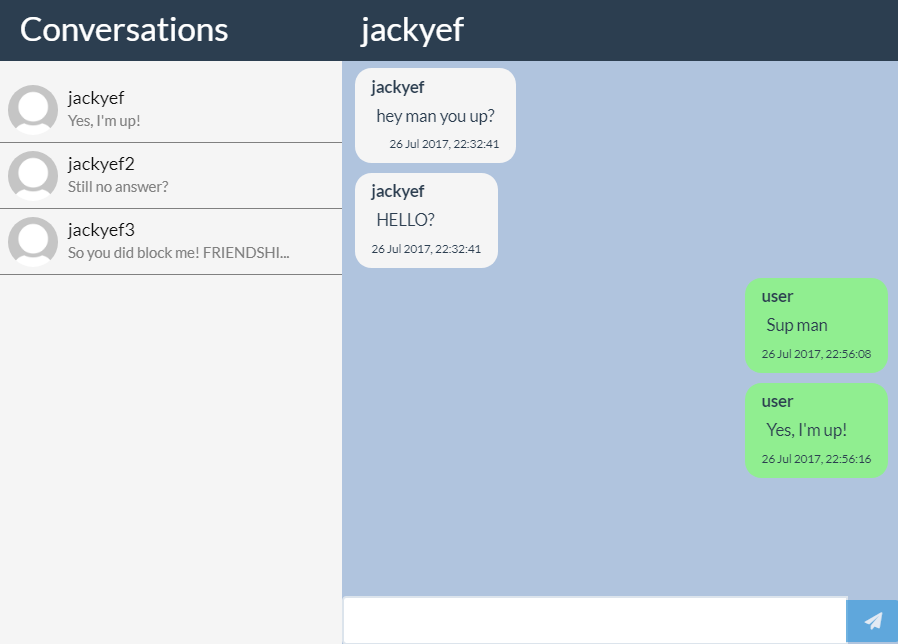
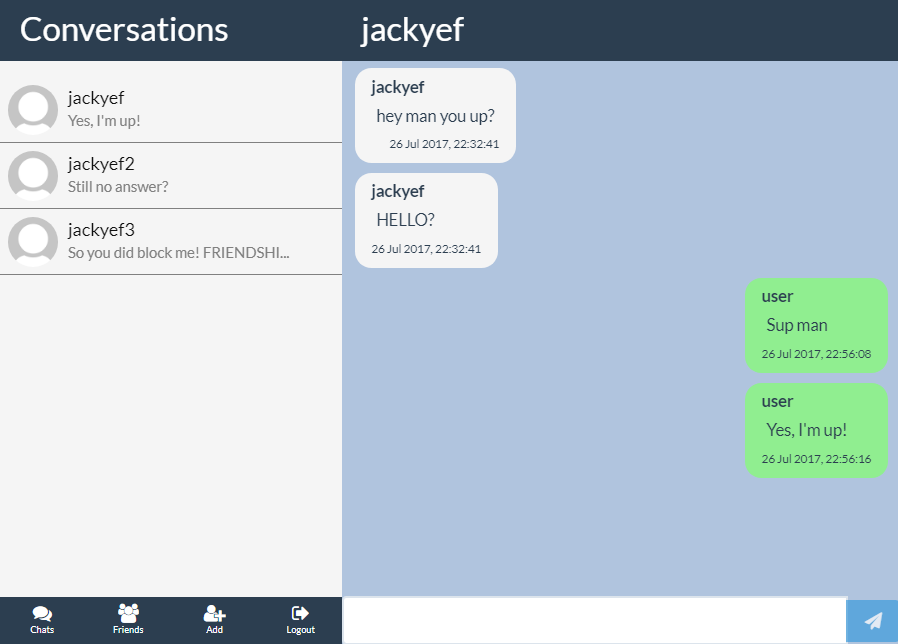
Update chat-app UI

Changed region(s): [[0.0, 0.9006, 0.4053, 1.0]]

diff --git a/server.js b/server.js
@@ -6,18 +6,19 @@ const session = require('express-session');
 const moment = require('moment');
 const passport = require('passport');
 const FacebookStrategy = require('passport-facebook');
+require('dotenv').config();
 
 var app = express();
 var expressWs = require('express-ws')(app);
 const port = process.env.PORT || "8000";
-const mongoUrl = process.env.PROD_MONGODB ;
+const mongoUrl = process.env.PROD_MONGODB;
 
-var twitterApiKey = process.env.TWITTER_API_KEY;
-var twitterApiSecret = process.env.TWITTER_API_SECRET ;
+var twitterApiKey = process.env.TWITTER_API_KEY || "";
+var twitterApiSecret = process.env.TWITTER_API_SECRET || "";
 // If you are seeing this and thought to yourself "Hey, free key!",
 // well, you're out of luck. This key only limits to 3 USD/month 
 // and it won't go over the limit at all 
-var bingApiKey = process.env.BING_API_KEY ;
+var bingApiKey = process.env.BING_API_KEY || "";
 
 // Retrieve
 var MongoClient = require('mongodb').MongoClient;
@@ -1327,12 +1328,53 @@ var entries = {
   3: {
     name: "jackyef3",
     id: 3,
-  }
+  },
+  4: {
+    name: "jackyef",
+    id: 1,
+  },
+  5: {
+    name: "jackyef2",
+    id: 2,
+  },
+  6: {
+    name: "jackyef3",
+    id: 3,
+  },
+  7: {
+    name: "jackyef",
+    id: 1,
+  },
+  8: {
+    name: "jackyef2",
+    id: 2,
+  },
+  9: {
+    name: "jackyef3",
+    id: 3,
+  },
+  10: {
+    name: "jackyef",
+    id: 1,
+  },
+  11: {
+    name: "jackyef2",
+    id: 2,
+  },
+  12: {
+    name: "jackyef3",
+    id: 3,
+  },
 };
 
 app.get('/chat-app', function(req, res){
   var data = {};
   res.render('chat/index', data);
+});
+
+app.get('/chat-app/login', function(req, res){
+  var data = {};
+  res.render('chat/login', data);
 });
 
 app.get('/chat-app/initialData', function(req, res){
@@ -1349,5 +1391,23 @@ app.post('/chat-app/sendMessage', function(req, res){
   allMessages[entryId].push(msg);
   res.status(200);
   res.send();
+});
+
+app.ws('/chat-app/ws', function(ws, req) {
+  ws.on('message', function(msg) {
+    console.log("broadcasting message to all clients:", msg);
+    expressWs.getWss().clients.forEach(function(client,i){
+      if(client !== ws) client.send(msg);
+    });
+    var data = msg.split(':');
+    var action = data[0];
+    var symbol = data[1];
+    
+    if(action == "ADD"){
+      names.push(symbol);
+    } else if(action == "REMOVE") {
+      names.splice(names.indexOf(symbol), 1);
+    }
+  });
 });
 // end of chat-app

diff --git a/public/css/vue-chat.css b/public/css/vue-chat.css
@@ -34,6 +34,7 @@ html, body {
 }
 .sidebar {
     overflow-y: scroll;
+    overflow-x: hidden;
     transition: 1s;
     background-color: #f5f5f5;
     z-index: 5;
@@ -43,8 +44,9 @@ html, body {
     right: 100%;
     position: absolute;
     overflow-y: scroll;
+    overflow-x: hidden;
     z-index: 99;
-    transition: .6s;
+    transition: .7s cubic-bezier(0.075, 0.82, 0.165, 1);
 }
 .sidebar-mobile-toggle{
     /* fill this if needed */
@@ -61,8 +63,17 @@ html, body {
     line-height: 1.75em;
 }
 
-.chat-entries{ 
-    padding-top: 1em;
+.sidebar-view{ 
+    /*padding-top: 1em;*/
+    /*border: 1px solid black;*/
+    overflow-y: scroll;
+    top: 4em;
+    bottom: 3em;
+    position: absolute;
+    color: black;
+}
+.sidebar-view .jumbotron {
+    text-align: center;
 }
 .chat-entry{
     padding: .5em;
@@ -93,7 +104,25 @@ html, body {
     color: gray;
     font-size: .9em;
 }
-
+.nav-buttons{
+    position: absolute;
+    bottom: 0;
+    width: 101%;
+    text-align: center;
+}
+.nav-button{
+    /*border: 1px solid black;*/
+    font-size: 1.25em;
+    padding-bottom: .2em;
+    padding-top: .5em;
+    z-index: 99;
+}
+.nav-button:hover{
+    filter: brightness(140%);
+}
+.nav-text{
+    font-size:.5em;
+}
 
 .content {
     background-color: lightsteelblue;

diff --git a/public/css/vue-chat-login.css b/public/css/vue-chat-login.css
@@ -1,0 +1,50 @@
+html, body {
+    overflow: hidden;
+    height: 100%;
+    padding: 0;
+    margin: 0;
+}
+
+.login-dialog{
+    /*position: absolute;
+    top: 20%;*/
+    /*transform: translateY(-50%);*/
+    display: block;
+    background-color: rgba(30, 30, 30, .6);
+    margin-top: 10%;
+    color: #efefef;
+    padding: 2em;
+}
+.login-dialog h3{
+    text-align: center;
+    text-decoration: uppercase;
+}
+.login-dialog button{
+    margin: 1em 0 1em 0;
+    opacity: .6;
+    transition: .3s cubic-bezier(0.215, 0.610, 0.355, 1);
+}
+.login-dialog button:hover, .login-dialog button:focus{
+    opacity: .9;
+}
+.btn-fb{
+    background-color: #3b5998;
+    border-color: #3b5998;
+}
+.login-dialog input{
+    border: none;
+    margin: 1em 0 1em 0;
+    opacity: .6;
+    transition: .3s cubic-bezier(0.215, 0.610, 0.355, 1);
+}
+
+.login-dialog input:hover{
+    opacity: .9;
+}
+.login-dialog input:focus{
+    opacity: .9;
+}
+
+* {
+    /*border: 1px solid black;*/
+}
